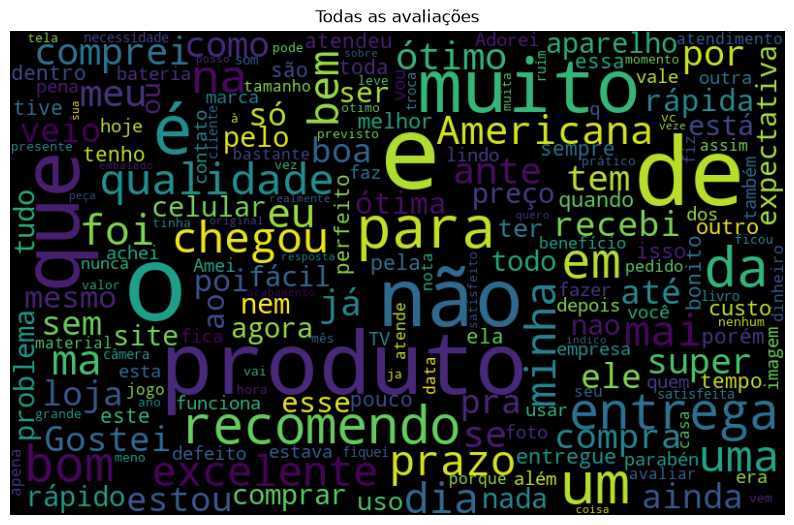
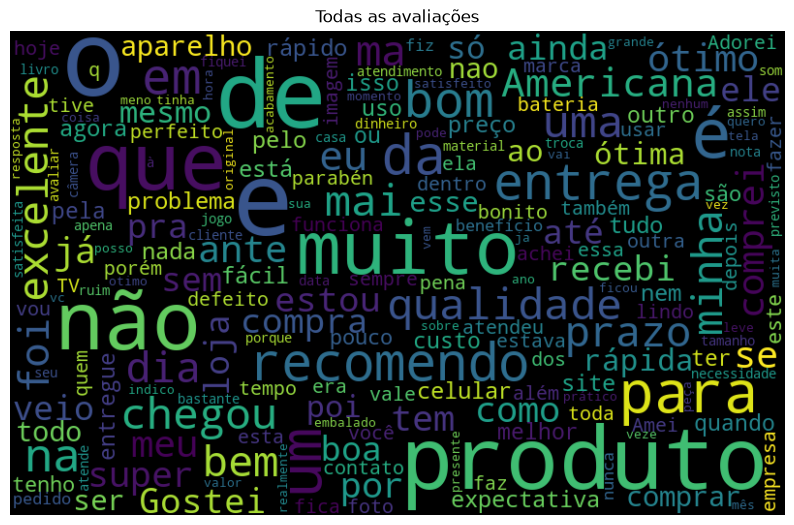
Add random_state na wordcloud e att imagens

diff --git a/main.py b/main.py
@@ -47,7 +47,8 @@ def obter_todas_palavras(dados, coluna_texto):
 def gerar_nuvem_palavras(texto):
   return WordCloud(width=800, height=500,
     max_font_size=110,
-    collocations=False).generate(texto)
+    collocations=False,
+    random_state=71).generate(texto)
 
 # função para exibir a nuvem de palavras
 def exibir_nuvem_palavras(nuvem_palavras, titulo="Nuvem de palavras", caminho_arquivo=None):

diff --git a/README.md b/README.md
@@ -122,3 +122,7 @@ As avaliações negativas, positivas e o conjunto total são isolados em três f
 ### Nuvem de palavras — Avaliações positivas
 
 ![Nuvem de palavras das avaliações positivas](assets/nuvem_palavras_positivas.png)
+
+## Versionamento
+
+1. Bag of Words e WordCloud